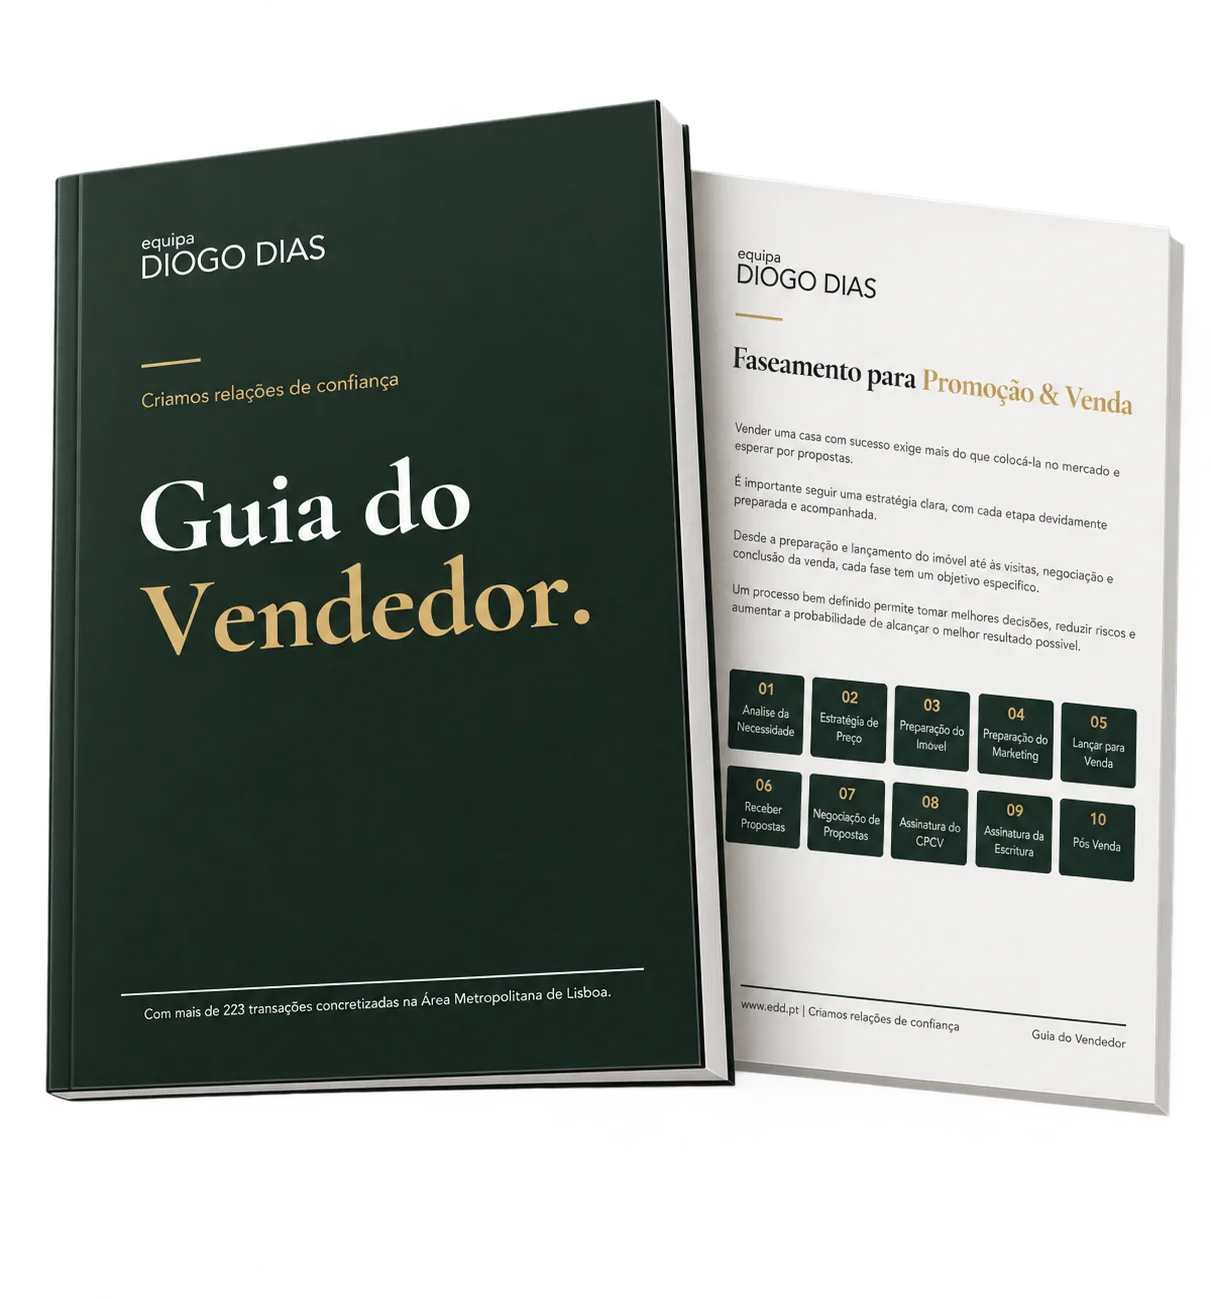
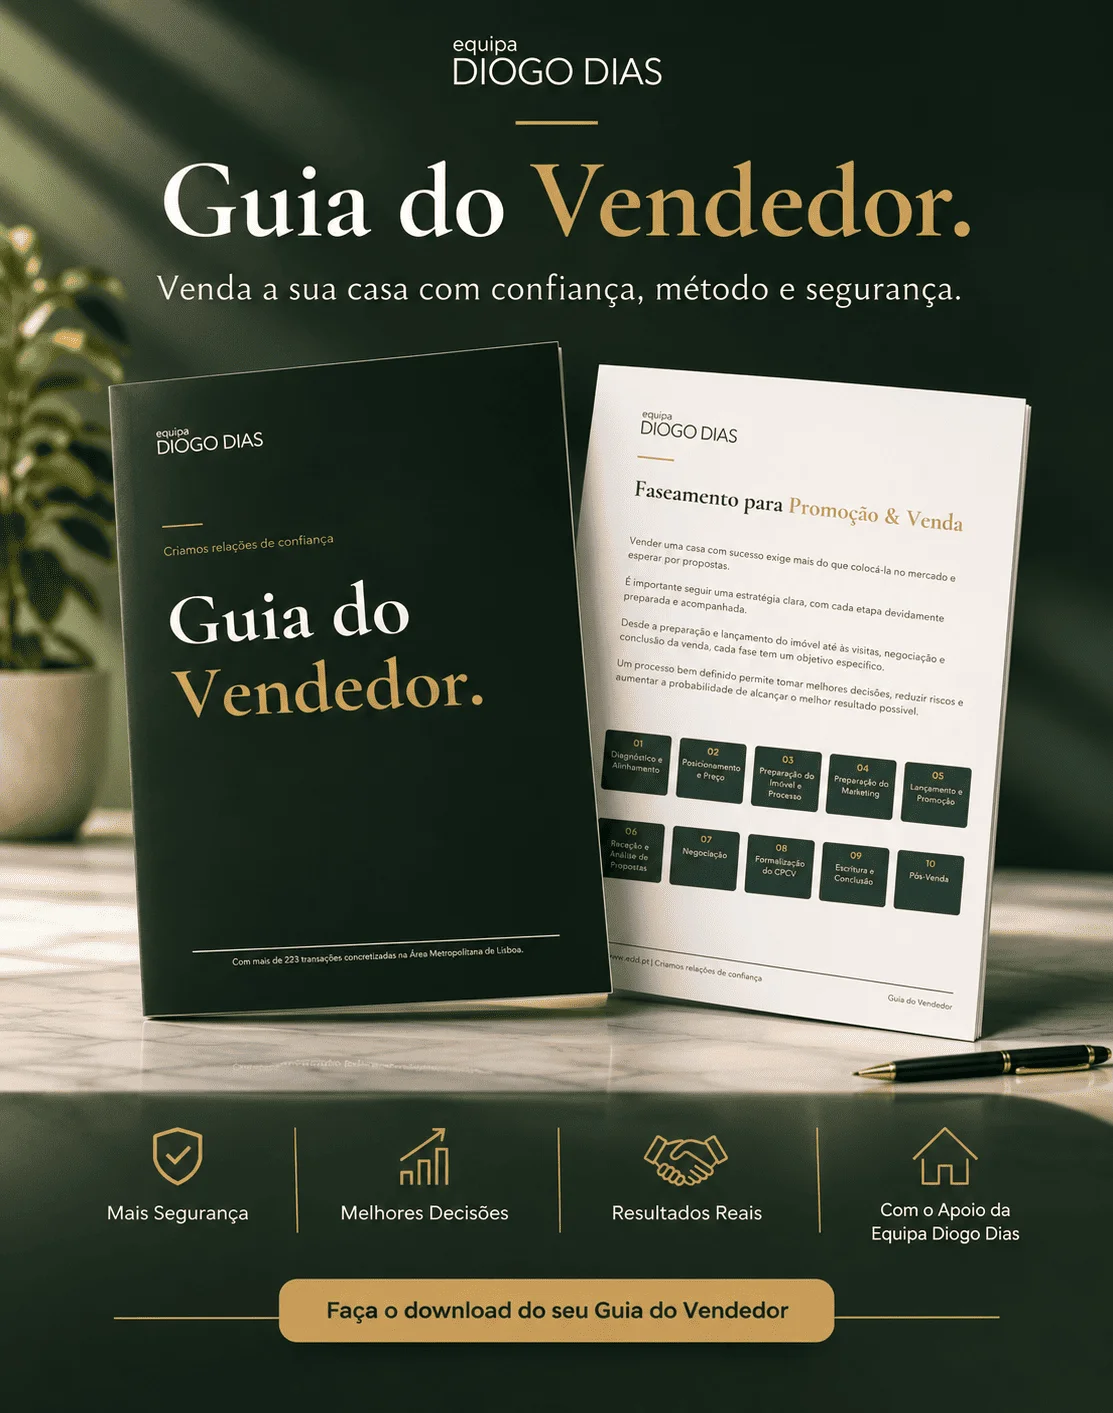
feat: substituir imagem hero do Guia do Vendedor (v2.0)
Nova imagem mockup-hero_v2.0.png convertida para WebP (330 KB -> 143 KB).
Dimensoes actualizadas: 1113x1413 (era 1211x1299).

diff --git a/guia-do-vendedor.html b/guia-do-vendedor.html
@@ -986,7 +986,7 @@
         </div>
 
         <div class="hero-image">
-          <img src="/assets/mockup-hero.webp" alt="Guia do Vendedor — Equipa Diogo Dias" width="1211" height="1299" loading="eager">
+          <img src="/assets/mockup-hero.webp" alt="Guia do Vendedor — Equipa Diogo Dias" width="1113" height="1413" loading="eager">
         </div>
 
       </div>
